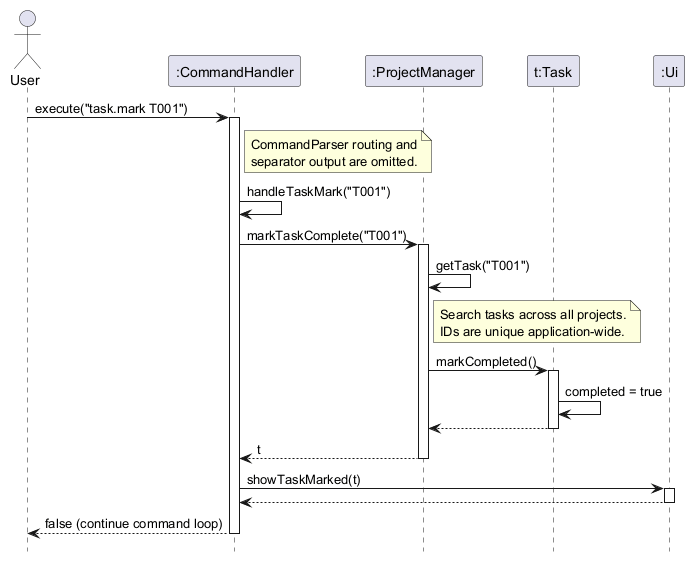
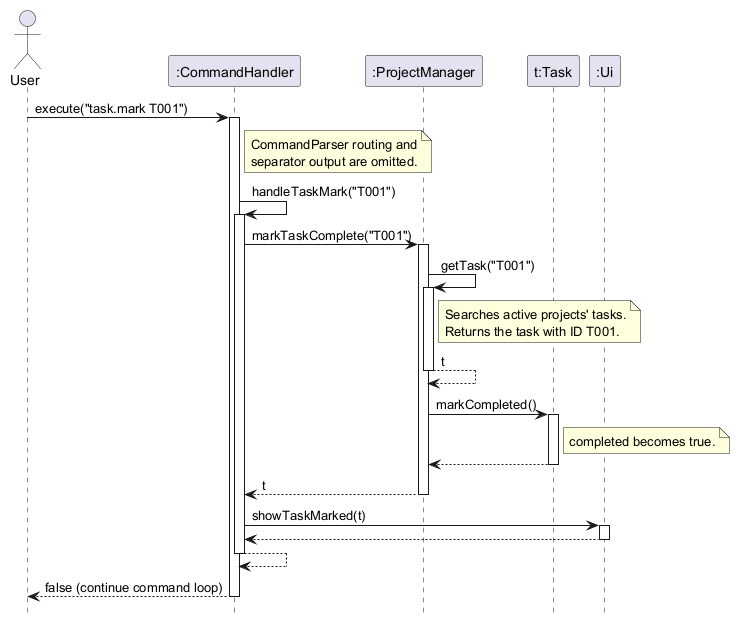
docs: correct task completion and persistence UML scenarios
Separate saving from task restoration, clarify retained references and temporary dependencies, and show self-invocation and object creation with course UML notation. Keep PlantUML sources and PNG exports together, explain save failure behaviour, and add manual checks for project progress and restart persistence.

Changed region(s): [[0.0, 0.0, 0.9986, 0.9697], [0.938, 0.0909, 0.9986, 0.1818], [0.938, 0.8485, 0.9683, 0.8788]]

diff --git a/docs/DeveloperGuide.md b/docs/DeveloperGuide.md
@@ -2,7 +2,9 @@
 
 ## Acknowledgements
 
-{list here sources of all reused/adapted ideas, code, documentation, and third-party libraries -- include links to the original source as well}
+* Documentation structure follows the [AddressBook-Level3 User Guide](https://se-education.org/addressbook-level3/UserGuide.html), [Developer Guide](https://se-education.org/addressbook-level3/DeveloperGuide.html) and [PPP example](https://se-education.org/addressbook-level3/team/johndoe.html), as recommended by the [CS2113 deliverables guidance](https://nus-cs2113-ay2627-s1.github.io/website/admin/tp-deliverables.html).
+* UML notation follows the course's [Modeling (Using UML) chapter](https://nus-cs2113-ay2627-s1.github.io/website/se-book-adapted/chapters/modeling.html).
+* Diagrams are authored and rendered with [PlantUML](https://plantuml.com/).
 
 ## Design & implementation
 
@@ -117,6 +119,12 @@ which classes read or write it. Methods unrelated to this enhancement are omitte
 
 ![Class diagram of task completion and persistence](images/TaskCompletionClassDiagram.png)
 
+The solid arrow from `ProjectManager` to `Project` represents the manager's retained project
+references. The filled diamond at `Project` represents its ownership of tasks: each task belongs
+to one project. Dashed arrows represent temporary use by `DataStorage` and `Ui`, which receive
+these model objects through calls rather than keeping them as fields. The inherited scheduling
+fields of `Task` are omitted; see the creation model above for `ScheduledItem`.
+
 #### Marking and reopening tasks
 
 `Task` owns one `completed` boolean, initially `false`. `task.mark TASK_ID` sets it to `true`;
@@ -155,40 +163,71 @@ avoids a second value that could become stale when a task is marked, reopened or
 `save` lets a user persist current data without ending the session. `BusyNotFree#run` recognises
 this standalone command before sending dotted commands to `CommandHandler`. It rejects extra
 arguments, calls `saveData`, shows `Data saved.` only if the write succeeds, then prompts for
-another command. File I/O stays in the application layer, where the existing save action is
-already available. The sequence diagram shows the success and I/O failure paths.
+another command. `BusyNotFree` coordinates saving, while `DataStorage` performs file I/O.
+The sequence diagram shows a successful standalone save. Callback invocation and filesystem
+calls are summarised in UML notes to keep the scenario focused.
 
 ![Sequence diagram of the save command](images/SaveCommandSequenceDiagram.png)
 
 In `BusyNotFree#main`, the `SaveAction` callback is connected to
 `DataStorage#save(clientManager, projectManager)`. Both `save` and `exit` use `saveData`, which
-reports an `IOException` and returns `false` on failure. The `exit` path additionally shows
-`Data saved. Goodbye!` and leaves the command loop only after a successful write. A failed
-explicit `exit` can be retried, while a failed `save` simply returns to the next prompt.
-`SaveAction` lets tests simulate failed writes without accessing the real filesystem.
+returns `true` only when that action completes normally. On `IOException`, it displays
+`Critical ERROR!!! Unable to save data: ` followed by the cause and returns `false`.
+`SaveAction` lets tests simulate a failed write without accessing the real filesystem.
 
-The following diagram shows how an `exit` save stores task completion and how startup restores
-it. The standalone `save` command calls the same `DataStorage#save` method.
+| Trigger | Successful write | Failed write |
+| --- | --- | --- |
+| `save` without arguments | Show `Data saved.` and continue reading commands. | Show the error and continue reading commands. |
+| `exit`, including extra words | `CommandHandler#execute` returns `true`; `saveAndReportExit` saves, shows `Data saved. Goodbye!` and ends the loop. | Show the error and continue reading commands so the user can retry. |
+| End of input | Cancel any pending deletion, save, show the goodbye message and return. | Show the error and return because no further input is available. |
 
-![Sequence diagram of saving and restoring task completion](images/TaskCompletionPersistenceSequenceDiagram.png)
+`save` with arguments is rejected before the callback is called. While a deletion confirmation
+is pending, `save` and `exit` are treated as confirmation answers rather than commands.
+
+#### Writing and restoring task completion
 
 `DataStorage#save` gathers tasks from every project, sorts them by their application-wide IDs,
 and writes each flag alongside the task's existing fields in the version 1 properties file.
 For example, `task.0.completed=true` records a completed task. It writes a temporary UTF-8
 file in the data directory before replacing the old file. An atomic replacement is attempted
-first, with an ordinary replacement when the filesystem does not support atomic moves.
+first, with an ordinary replacement when the filesystem does not support atomic moves. This
+reduces the risk of a partially written data file; the fallback does not provide the same
+atomicity guarantee. The save also includes client notes, next-ID counters and the team's
+trashcan data.
 
 On the next launch, `DataStorage#load` creates linked client and project managers, restores
-clients and projects first, then reconstructs tasks and events. Once each task exists, a saved
-`true` flag marks it complete. A missing flag defaults to `false`, so data files produced before
-this enhancement still load with their tasks in progress. Only the exact values `true` and
+clients and projects first, then reconstructs tasks and events. `loadTasks` advances the task
+counter to each saved ID before calling `ProjectManager#addTask`, so gaps from deleted IDs are
+preserved. Once each task exists, a saved `true` flag marks it complete. A missing flag defaults
+to `false`, so data files produced before this enhancement still load with their tasks in
+progress. Only the exact values `true` and
 `false` are accepted; an invalid value makes loading fail instead of silently changing a task's
-state. Saved next-ID counters also prevent deleted IDs from being reused after a restart.
+state. Finally, the saved next-ID counters prevent deleted IDs from being reused after a restart.
+
+The following diagram focuses on restoring one task inside `DataStorage#loadTasks`, after
+clients and projects have been loaded. The task is a new object in the new application run;
+its constructor call starts its lifeline. File reading, project registration and counter
+bookkeeping are omitted where noted.
+
+![Sequence diagram of restoring one saved task's completion](images/TaskCompletionPersistenceSequenceDiagram.png)
 
 Marking and reopening change only the in-memory model. The next successful `save` or `exit`
 writes the new state. `BusyNotFree#main` reports a load error and stops if a saved file is
-invalid. On end-of-input, the command loop attempts a save once before returning; an explicit
-`save` or `exit` can be retried after a failed write.
+invalid, before creating the command loop or saving anything over the file. A missing file
+creates empty, linked managers. The path `data/busynotfree.properties` is resolved relative
+to the process working directory, not the JAR's directory.
+
+#### Diagram notation and maintenance
+
+These diagrams use the notation in the course's [Modeling (Using UML) chapter](https://nus-cs2113-ay2627-s1.github.io/website/se-book-adapted/chapters/modeling.html#sequence-diagrams-basic).
+Solid filled-arrow messages represent synchronous Java calls; dashed arrows represent returns.
+Nested activation bars show self-invocation, and an `opt` frame marks the conditional call to
+`Task#markCompleted`. Assigning the boolean is described in a note rather than drawn as a
+method call. Each sequence diagram describes one scenario in one application run.
+
+Editable sources are in `docs/diagrams`. After changing a source, regenerate its matching PNG
+in `docs/images` and inspect it at the guide's reading width. Keep the sources and exported
+images together when preparing a PR. The existing `project.view` diagram is unchanged.
 
 #### Design and verification
 
@@ -198,13 +237,13 @@ invalid. On end-of-input, the command loop attempts a save once before returning
   field avoids changing the file version or rejecting existing v1.0 saves.
 * The application handles `save` because it is a standalone command that needs storage access.
   This avoids giving the general `CommandHandler` responsibility for file I/O.
-* [`CommandHandlerTest`](../src/test/java/busynotfree/command/CommandHandlerTest.java)
-  covers marking, reopening and invalid IDs. [`ProjectViewTest`](../src/test/java/busynotfree/command/ProjectViewTest.java)
+* [`CommandHandlerTest`](https://github.com/AY2627S1-CS2113-T10-3/tp/blob/master/src/test/java/busynotfree/command/CommandHandlerTest.java)
+  covers marking, reopening and invalid IDs. [`ProjectViewTest`](https://github.com/AY2627S1-CS2113-T10-3/tp/blob/master/src/test/java/busynotfree/command/ProjectViewTest.java)
   checks empty, partial and complete counts, including `project.view all`.
-  [`DataStorageTest`](../src/test/java/busynotfree/storage/DataStorageTest.java) checks
+  [`DataStorageTest`](https://github.com/AY2627S1-CS2113-T10-3/tp/blob/master/src/test/java/busynotfree/storage/DataStorageTest.java) checks
   saved and restored flags, the older-file default and malformed saved data.
-  [`BusyNotFreeTest`](../src/test/java/busynotfree/BusyNotFreeTest.java) checks `save` success,
-  failure and continued input. [`BusyNotFreeClientTest`](../src/test/java/busynotfree/BusyNotFreeClientTest.java)
+  [`BusyNotFreeTest`](https://github.com/AY2627S1-CS2113-T10-3/tp/blob/master/src/test/java/busynotfree/BusyNotFreeTest.java) checks `save` success,
+  failure and continued input. [`BusyNotFreeClientTest`](https://github.com/AY2627S1-CS2113-T10-3/tp/blob/master/src/test/java/busynotfree/BusyNotFreeClientTest.java)
   checks that an in-session save can be loaded before a later exit.
 
 ### Editing tasks and events: `task.edit` and `event.edit`
@@ -651,3 +690,52 @@ For deletion commands, enter `yes` or `no` when prompted. Invalid commands
 should display an error and leave the affected record unchanged. The automated
 verification suite can be run with `.\gradlew.bat check`; it compiles the
 project, runs the tests, and runs Checkstyle.
+
+### Project views, completion and saving
+
+For an isolated check of these features, launch the JAR from a fresh, writable test directory.
+The following IDs assume there is no existing data in that directory. Use the
+[User Guide's startup instructions](UserGuide.md#quick-start) to launch the application.
+
+1. Create two projects with different task counts:
+
+   ```text
+   client.add name/Acme Studio
+   project.add client/C001 name/Website due/2026-11-30
+   project.add client/C001 name/Logo due/2026-12-15
+   task.add project/P001 name/Wireframe date/2026-10-15
+   task.add project/P001 name/Build homepage date/2026-10-20
+   task.add project/P002 name/Sketch logo date/2026-10-22
+   event.add project/P001 name/Review date/2026-10-25
+   task.mark T001
+   task.mark T003
+   project.view all
+   ```
+
+   Expect `Progress: 1 of 2 tasks completed.` for P001 and `Progress: 1 of 1 task completed.`
+   for P002. The event must appear only under P001's events and must not affect either count.
+   Both project statuses remain `ACTIVE`.
+
+2. Enter `save`. Expect `Data saved.` and another prompt. Before exiting, inspect the saved
+   file without editing it: `task.0.completed=true` and `task.2.completed=true` confirm that
+   the in-session save wrote the completion states. Enter `task.unmark T001` twice, then
+   `project.view P001`. Expect `[In Progress]` for T001 and `Progress: 0 of 2 tasks completed.`
+   after both commands.
+
+3. Enter `exit now`, restart from the same directory, and enter `project.view all`. Expect
+   the same IDs, descriptions, dates and completion states as before exiting. P002 must still
+   show one completed task. Enter `project.view` to check that omitting the argument displays
+   the same summaries as `project.view all`.
+
+4. Enter `project.view P999`, `task.mark T999` and `save now`, one at a time. Each must display
+   an error and leave the session running. Recheck P001 to confirm that its tasks are unchanged.
+
+5. For the empty case, use another fresh test directory and enter `project.view`. Expect
+   `No projects found.`. Add a client and a project without activities, then view that project.
+   Expect `No tasks found.`, `Progress: 0 of 0 tasks completed.` and `No events found.`.
+
+For a controlled save-failure check, use a separate fresh test directory and create a regular
+file named `data` before launching the JAR. Both `save` and `exit` should report a save error,
+show no success message, and accept another command while input remains available. This fixture
+blocks creation of the required data directory. Use it only for this test; do not replace
+the data directory of a normal session.
